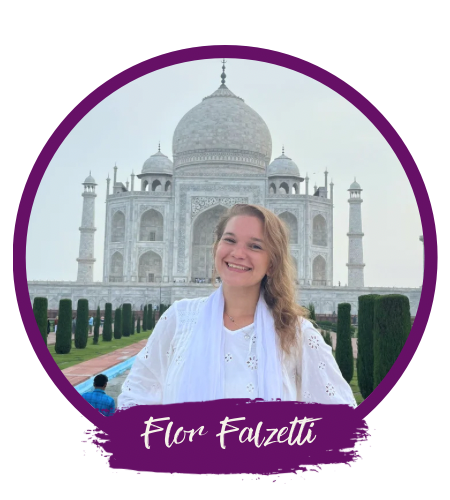
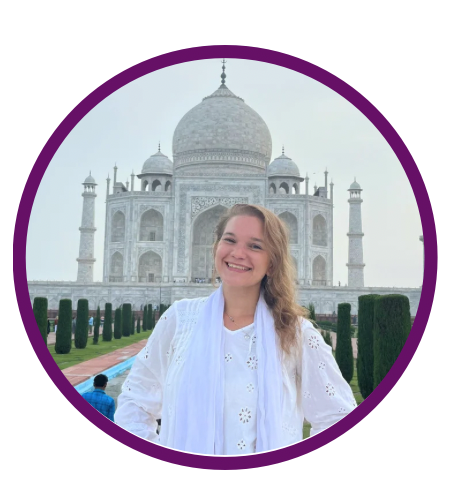
Armado el contacto con foto, detalles responsive

Changed region(s): [[0.1867, 0.78, 0.84, 0.96]]

diff --git a/index.html b/index.html
@@ -35,7 +35,7 @@
             </div>
         </div>
         <p>Una experiencia <b>única</b> que une turismo y espiritualidad</p>
-        <button class="white-btn" onclick="showModal()">CONTACTO</button>
+        <button class="white-btn" onclick="showModal()">MÁS INFO</button>
         <span id="arrow-splash">&#x276F;</span>
     </main>
 
@@ -146,7 +146,7 @@
         </ul>
         <h4>¿Necesito experiencia previa en yoga, meditación o algún otro conocimiento?</h4>
         <p>¡Para nada! Esta puede ser la puerta de entrada al mundo del yoga. Con mucho amor te guiaremos en este proceso de encuentro con las posturas, los mantras y la meditación.</p>
-        <button class="white-btn" onclick="showModal()">CONTACTO</button>
+        <button class="white-btn" onclick="showModal()">MÁS INFO</button>
     </section>
 
 
@@ -155,14 +155,14 @@
         <div id="lu-bio">
             <img src="./img/lubio.png" alt="">
             <h3>LUDMI KONDRA</h3>
-            <p>Soy maestra de registros akashicos y terapias energéticas, profesora de yoga, meditación y canto de mantras hace más de 10 años. Viaje a India por primera vez a mis 24 años y viví un año allí. India transformó mi percepción del mundo y de mi misma de una vez y para siempre. </p>
-            <p>Soñe durante muchos años acompañar a otras mujeres a que vivan la experiencia de descubrirse a si mismas mientras descubren la magia de India. Hoy, diez años después de mi primer viaje ese sueño se hace realidad ¡bienvenidas! Comienza una mágica aventura.</p>
+            <p>Soy maestra de registros akashicos y terapias energéticas, profesora de yoga, meditación y canto de mantras hace más de 10 años. Viajé a India por primera vez a mis 24 años y viví un año allí. India transformó mi percepción del mundo y de mi misma de una vez y para siempre. </p>
+            <p>Soñé durante muchos años acompañar a otras mujeres a que vivan la experiencia de descubrirse a si mismas mientras descubren la magia de India. Hoy, diez años después de mi primer viaje ese sueño se hace realidad ¡Bienvenidas! Comienza una mágica aventura.</p>
         </div>
         <div id="flor-bio">
             <img src="./img/florbio.png" alt="">
             <h3>FLOR FALZETTI</h3>
-            <p>Soy Lic. en administración, Instructora de meditación y respiración y Yoga. Estudio terapias ayurvédicas, facilito la terapia Marma y hago aperturas de Registros Akashicos. Con más de 9 años en este hermoso camino de la auto observación, servicio y espiritualidad, viví en India por más de 6 meses y sentí un gran compromiso por dar a conocer con su cultura.</p>
-            <p>Te invito a formar parte de esta gran tribu de mujeres donde juntas haremos camino hacia nuestro ser. Este viaje es mucho más que turismo: es un viaje a lo más profundo de tu ser.</p>
+            <p>Soy Lic. en administración, instructora de yoga y de técnicas de meditación y respiración. Estudio terapias ayurvédicas, facilito la terapia Marma y hago aperturas de Registros Akashicos. Llevo más de 9 años en este hermoso camino de auto observación, servicio y espiritualidad. Viví en India por más de 6 meses y sentí un gran compromiso por dar a conocer su cultura.</p>
+            <p>Te invito a formar parte de esta gran tribu de mujeres donde haremos camino juntas. Este viaje es mucho más que turismo: es un viaje a lo más profundo de tu ser.</p>
         </div>
     </section>
 
@@ -183,7 +183,7 @@
             <img src="./img/lotus--.png" alt="">
             <div id="cd-line"></div>
         </div>
-        <button class="white-btn" onclick="showModal()">CONTACTO</button>
+        <button class="white-btn" onclick="showModal()">¡ QUIERO IR !</button>
     </section>
 
 
@@ -192,7 +192,7 @@
 
     <footer>
         <div id="footer-icons">
-            <a href="www.instagram.com/indiaentribu" target="_blank">
+            <a href="https://www.instagram.com/indiaentribu" target="_blank">
                 <i class="fa-brands fa-instagram"></i></a>
             <a a href="https://wa.me/5491128976536" target="_blank">
                 <i class="fa-brands fa-whatsapp"></i></a>
@@ -202,10 +202,10 @@
     </footer>
 
     <div id="contact-modal">
-        <img src="./img/contacto.png" alt="">
+        <img src="./img/contacto.jpg" alt="">
         <div id="form-container">
             <form method="post" action="" name="contact-form" id="contact-form">
-                <h4 id="form-title">CONTACTANOS</h4>
+                <p id="form-title">Dejanos tus datos para<br>enviarte más detalles sobre<br><b>India en tribu</b>.</p>
                 <label for="nombre">Nombre completo</label>
                 <input class="form-field" type="text" name="nombre" required>
     
@@ -215,7 +215,6 @@
                 <label for="email">Correo electrónico</label>
                 <input class="form-field" type="email" name="email" required>
                 <input type="submit" value="ENVIAR" id="submit">
-                <p id="form-msg"></p>
             </form>
         </div>
         <span id="form-cross" onclick="hideModal()">&#10005;</span>

diff --git a/styles.css b/styles.css
@@ -1,6 +1,6 @@
 /* VARIABLES DE COLOR */
 :root {
-    --violeta: #661066;
+    --violeta: rgb(102, 16, 102);
     --naranja-soft: #ffa22c;
     --naranja-strong: #ff6634;
     --fucsia: #eb2492;
@@ -17,6 +17,7 @@
     --black-20: rgba(0,0,0,.2); 
     --fucsia-20: rgba(210,0,120,.2);
     --fucsia-50: rgba(210,0,120,.5);
+    --violeta-70: rgba(102, 16, 102,.7);
 }
 
 
@@ -443,7 +444,7 @@ main > .white-btn {
 
 #cards-container {
     width: 100vw;
-    height: 400px;
+    height: 350px;
     display: grid;
     place-items: center;
     grid-auto-flow: column;
@@ -465,7 +466,7 @@ main > .white-btn {
     margin-bottom: 12px;
     scroll-snap-align: inherit;
     border-radius: 21px;
-    height: 360px;
+    height: 300px;
     width: 80vw;
     display: flex;
     align-items: center;
@@ -570,16 +571,35 @@ main > .white-btn {
 }
 
 #info2 > h2 {
+    position: relative;
     font-size: 30px;
     font-weight: 900;
+    margin-top: 70px;
+}
+
+#info2 > h2:after {
+    content: 'próxima fecha de salida';
+    font-weight: 300;
+    position: absolute;
+    font-size: 16px;
+    width: 300px;
+    left: 0;
+    right: 0;
+    top: -16px;
+}
+
+#info2 > h3 {
+    font-size: 21px;
 }
 
 #info2 li {
     margin: 20px 0;
+    font-size: 18px;
 }
 
 #info2 h4 {
     padding: 0 20px;
+    font-size: 18px;
 }
 
 #info2 > p {
@@ -636,7 +656,7 @@ main > .white-btn {
 
 #bio > div > p {
     font-size: 18px;
-    padding: 0 50px;
+    padding: 0 40px;
     text-align: left;
     color: var(--wine);
     transition: all .2s linear;
@@ -821,7 +841,10 @@ footer a {
 }
 
 #contact-modal > img {
-    width: 250px;
+    position: absolute;
+    top: 0;
+    height: 100lvh;
+    opacity: .3;
 }
 
 #form-container {
@@ -831,7 +854,7 @@ footer a {
     flex-direction: column;
     align-items: center;
     justify-content: space-evenly;
-    background-color: var(--fucsia-20);
+    background-color: var(--violeta-70);
     border: 1px solid var(--white-30);
     border-radius: 9px;
 }
@@ -846,15 +869,21 @@ footer a {
 
 #form-title {
     text-align: center;
-    font-weight: 700;
+    font-weight: 600;
+    font-size: 16px;
+    margin: 30px;
+}
+
+#form-title > strong {
     font-size: 30px;
-    margin: 30px auto;
+    font-weight: 700;
 }
 
 label {
-    color: var(--white-70);
-    font-size: 12px;
-    margin-left: 50px;
+    color: var(--white-90);
+    font-weight: 500;
+    font-size: 14px;
+    margin-left: 30px;
 }
 
 .form-field {
@@ -886,10 +915,10 @@ input {
 }
 
 #submit {
-    margin: 30px;
+    margin: 30px auto;
     padding: 18px;
-    width: 230px;
-    border-radius: 12px;
+    width: 160px;
+    border-radius: 40px;
     border: 2px solid rgba(250,200,225,.5);
     background-image: 
         linear-gradient(
@@ -935,6 +964,12 @@ input {
         font-size: 18px;
     }
 
+    .white-btn {
+        font-size: 27px;
+        font-weight: 700;
+        width: 210px;
+    }
+
     #info1 {
         padding-bottom: 50px;
     }
@@ -948,6 +983,8 @@ input {
         font-size: 16px;
     }
 
+    
+
     #countdown > h3 {
         margin-top: 0;
         margin-bottom: 0;
@@ -959,6 +996,14 @@ input {
 
     .card:nth-of-type(8) {
         margin-right: calc((100vw - 500px) / 2) ;
+    }
+
+    #info2 {
+        padding: 20px 70px;
+    }
+
+    #info2 > h2 {
+        font-size: 45px;
     }
     
 }
@@ -1050,8 +1095,8 @@ input {
     /* HERO1 */
 
     #hero1 {
-        background-image: url(./img/night.png);
-        background-position: center;
+        background-image: url(./img/arcMajal.jpg);
+        background-position: 50% 45%;
     }
 
 

diff --git a/scripts.js b/scripts.js
@@ -1,7 +1,6 @@
 // VARIABLES DE FORMULARIO
 const scriptURL = 'https://script.google.com/macros/s/AKfycbyYyY62UQlrx2mq8TXbkyciTvzuTu3_3W-xgLXzWBuihpv-hJmLiWf3hm840NWHKFMzGQ/exec';
 const form = document.forms['contact-form'];
-const formMsg = document.getElementById('form-msg');
 const submitBtn = document.getElementById('submit');
 const formCont = document.getElementById('form-container');
 const contactModal = document.getElementById('contact-modal');
@@ -100,7 +99,7 @@ const citiesText = {
             cityText.innerHTML = 
             `<strong>Rishikesh</strong><br><br>
             "La ciudad de los sabios" Esta ciudad sagrada se encuentra a los pies de los Himalayas y se conoce como la capital del yoga. <br>
-            Aquí visitaremos bazares, templos, cascadas y nos sumergiremos en la profundidad del yoga y la meditación para cerrar el viaje en conexión profunda con el ser. `;
+            Aquí visitaremos bazares, templos, cascadas y nos sumergiremos en la profundidad del yoga y la meditación para cerrar el viaje en conexión profunda con el ser.`;
             cityText.style.color = "#724";
         }, 300);
     },
@@ -109,7 +108,7 @@ const citiesText = {
         setTimeout(() => {
             cityText.innerHTML = 
             `<strong>Retiro</strong><br><br>
-            "Aremo un retiro"`;
+            Para cerrar el viaje en armonía y conexión, realizaremos un retiro de dos días de Yoga y meditación en Rishikesh.`;
             cityText.style.color = "#724";
         }, 300);
     }
@@ -272,11 +271,12 @@ form.addEventListener('submit', e => {
 })
 
 function submitOk() {
-    formCont.classList.remove('blinking');
-    formMsg.innerHTML = `Gracias! Tus datos se cargaron correctamente.`;
-    formMsg.style.opacity = 1;
-
     form.reset();
+    formCont.classList.remove('blinking');
+    formCont.innerHTML = 
+        `<p id="form-title"><strong>Gracias!</strong><br><br>Tus datos se cargaron correctamente.<br><br>Te contactaremos a la brevedad.</p>`;
+    formCont.style.opacity = 1;
+    formCont.style.zIndex = 1;
 }
 
 function showModal() {
